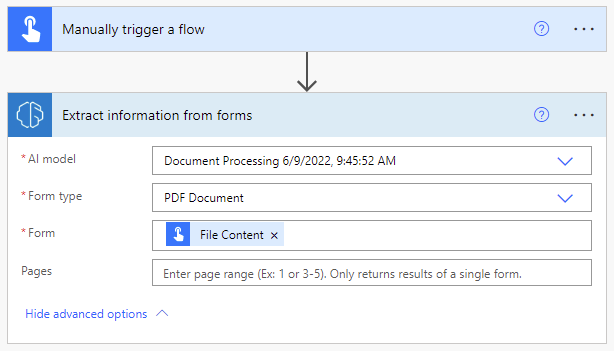
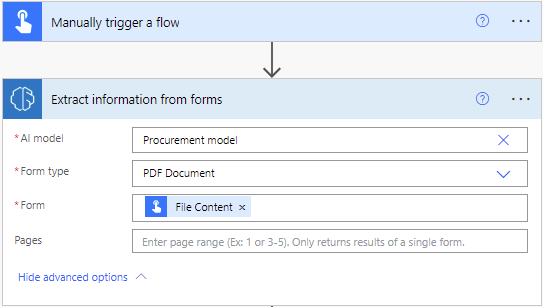
screenshots-fp

Changed region(s): [[0.0, 0.2052, 1.0, 0.9967], [0.0, 0.0, 1.0, 0.1466], [0.8545, 0.2932, 0.9134, 0.3518]]

diff --git a/ai-builder-docs/form-processing-model-in-flow.md b/ai-builder-docs/form-processing-model-in-flow.md
@@ -19,7 +19,7 @@ ms.reviewer: angieandrews
 
 1. Expand **Manually trigger a flow**, and then select **+Add an input** > **File** as the input type.
 
-1. Select **+New step** > **AI Builder**, and then select **Extract information from documents** in the list of actions.
+1. Select **+New step** > **AI Builder**, and then select **Extract information from forms** in the list of actions.
 
 1. Select the document processing model you want to use, and then select the document type.
 
@@ -37,8 +37,7 @@ ms.reviewer: angieandrews
     >- To retrieve the confidence score for an extracted item, select **<field_name> confidence score**. For example, for the *Lot number* field, select **Lot number confidence score**.
 
     > [!div class="mx-imgBorder"]
-    > ![Document processing flow overview.](media/flow-fp-overview-2.png "Document processing flow overview")
-
+    > ![Document processing flow overview.](media/flow-fp-overview-2AA.png "Document processing flow overview")
 
 Congratulations! You've created a flow that uses an AI Builder document processing model. Select **Save** on the top right, and then select **Test** to try out your flow.
 
@@ -92,8 +91,8 @@ To illustrate this procedure, we use the following example where we've trained a
 
 1. Select the field you wish to write the cell for a table. The dynamic content panel will open showing everything that the document processing model knows how to extract. Search for **{your table name} {your column name} value**. Our example uses *Items Quantity value*.
 
-> [!div class="mx-imgBorder"]
-> !['Process and save information from forms' screen.](media/form-processing-iterate-table-1.png "Select a column from an extracted table to add to a flow.")
+    > [!div class="mx-imgBorder"]
+    > !['Process and save information from forms' screen.](media/form-processing-iterate-table-1.png "Select a column from an extracted table to add to a flow.")
 
 2. Once you add this value, the action where you added it is automatically inserted into an **Apply to each** control. This way, every row in the table will be processed when the flow is run.
 

diff --git a/ai-builder-docs/form-processing-multipage.md b/ai-builder-docs/form-processing-multipage.md
@@ -44,7 +44,7 @@ For instructions, go to [Invoice processing prebuilt model](prebuilt-invoice-pro
 
 ## Extract a table that spans more than two pages
 
-For tables that go beyond two pages, [tag the table](create-form-processing-model.md#tag-documents) on the first pages where it's present. Once the model has been trained, process the document page-by-page using the [page range](form-processing-model-in-flow.md#page-range) feature to capture all the tables across all pages and merge them in a single table.
+For tables that go beyond two pages, [tag the table](create-form-processing-model.md#tag-documents) on the first pages where it's present. Once the model has been trained, process the document page-by-page using the [page range](form-processing-model-in-flow.md#page-range) feature to capture all the tables across all pages, and merge them in a single table.
 
 The following steps will guide you on how to achieve this:
 
